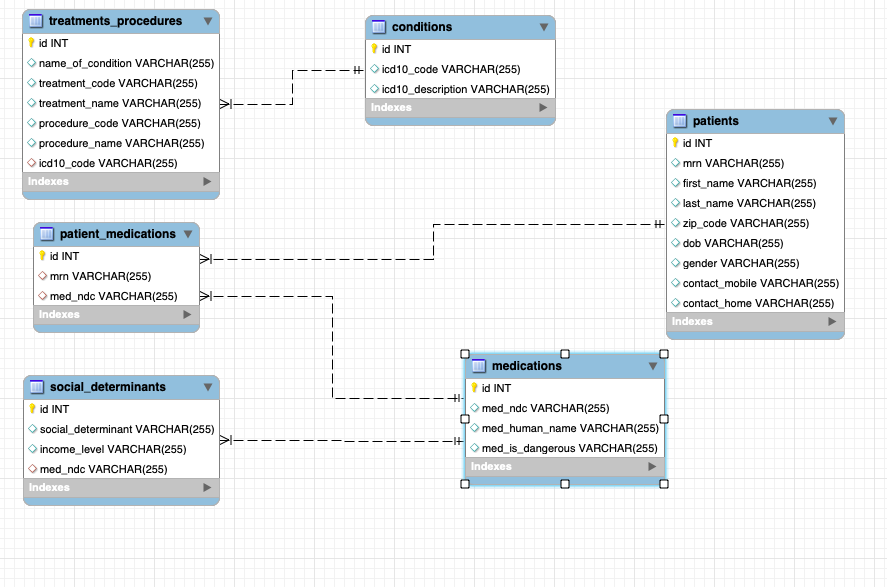
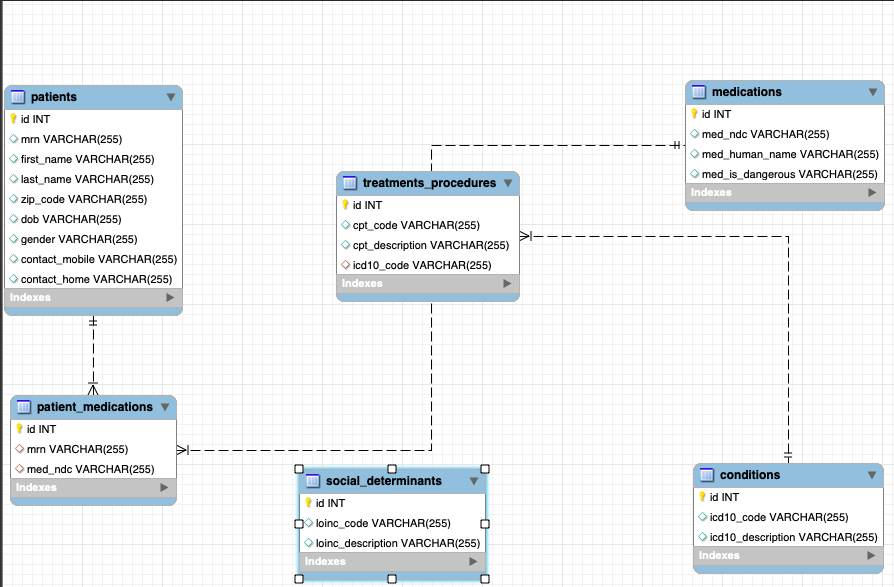
updates

diff --git a/script/sql_dummy_data.py b/script/sql_dummy_data.py
@@ -182,7 +182,7 @@ db_gcp.execute(loinc)
 ### create fake data for treatments_procedures table
 cptcodes = pd.read_csv('https://gist.githubusercontent.com/lieldulev/439793dc3c5a6613b661c33d71fdd185/raw/25c3abcc5c24e640a0a5da1ee04198a824bf58fa/cpt4.csv')
 list(cptcodes.columns)
-newCPTcode = cptcodes.rename(columns={'com.medigy.persist.reference.type.clincial.CPT.code':'CPT_code', 'label':'CPT_description'})
+newCPTcode = cptcodes.rename(columns={'com.medigy.persist.reference.type.clincial.CPT.code':'cpt_code', 'label':'cpt_description'})
 newCPTcode.sample(n=100)
 
 insertQuery = "INSERT INTO treatments_procedures (cpt_code, cpt_description) VALUES (%s, %s)"

diff --git a/script/sql_table_creation.py b/script/sql_table_creation.py
@@ -55,6 +55,7 @@ create table if not exists treatments_procedures (
     id int auto_increment,
     cpt_code varchar(255) default null unique,
     cpt_description varchar(255) default null,
+    icd10_code varchar(255) default null unique,
     PRIMARY KEY (id),
     FOREIGN KEY (icd10_code) REFERENCES conditions(icd10_code) ON DELETE CASCADE
 ); 
@@ -74,7 +75,7 @@ table_social_determinants = """
 create table if not exists social_determinants (
     id int auto_increment,
     loinc_code varchar(255) default null,
-    loinc_descritption varchar(255) default null,
+    loinc_description varchar(255) default null,
     PRIMARY KEY (id)
     ); 
 """
